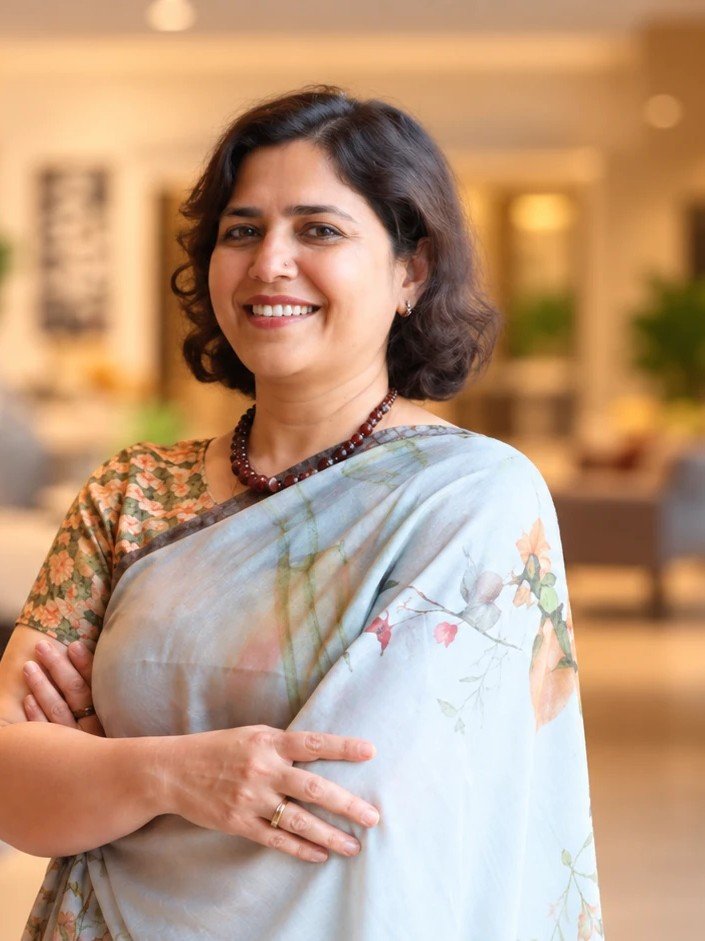
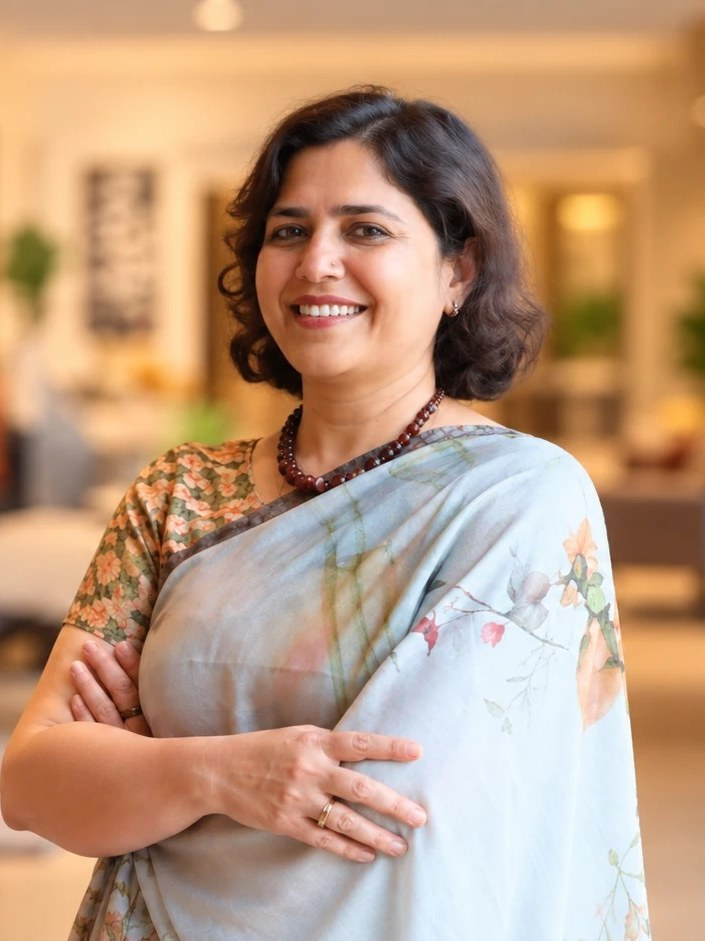
Vishwanathan: center the mobile hero crop on her face
Claude-Session: https://claude.ai/code/session_01EFkDZtm3DEXKgsbG4vz9sq

diff --git a/prospecting/vishwanathan/ITERACION-1.md b/prospecting/vishwanathan/ITERACION-1.md
@@ -139,3 +139,7 @@ Pablo trajo una foto real de Priya. Reemplaza el retrato generado en el hero (es
 ## Iteración 12: dos fotos reales más (16 de octubre de 2026)
 
 Pablo trajo dos fotos más. La de Priya escribiendo en su escritorio ocupa The practice en la portada (recorte 4:5) y la portada de Advisory; la de Priya junto a la ventana, en silueta, abre Perspectives. Revisado en 1440 y 390: caras completas y texto legible sobre el velo. La nota del pie pasa a decir que los retratos son suyos y la fotografía de lugares es ilustrativa.
+
+## Iteración 13: hero móvil centrado (16 de octubre de 2026)
+
+En el móvil la foto del hero se veía corrida: la cara quedaba hacia la izquierda (al 34 % del ancho). `hero-mobile.jpg` se recortó de nuevo desde `hero.jpg` con el eje en el centro del óvalo de la cara y el collar (x = 822 de 1672). Revisado en 375, 390 y 430.
